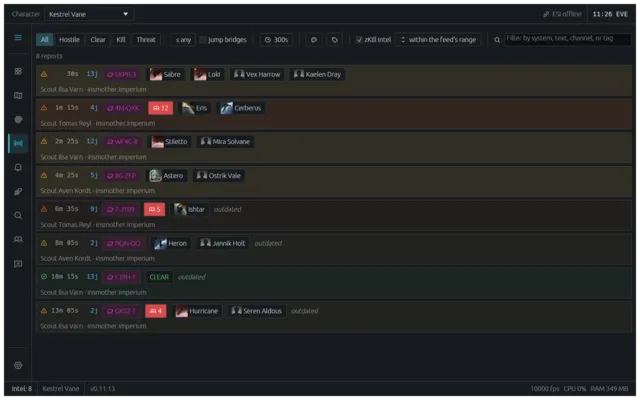
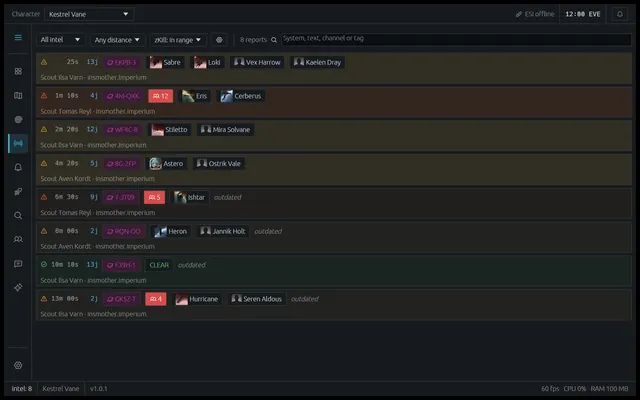
Website for 1.0: fresh screenshots, the assistant, languages and the map overlay
- Every screenshot rendered again from the current app, with a new one of the assistant answering a spoken question; og image from the new map
- A section on the assistant (voice, models, what it may read, watches, asking before it acts), tiles for the six languages and the map over the game, Language among the settings
- The 1.0 badge and feedback wording in place of alpha; screenshot links versioned so browsers fetch the new ones
- Renders report English as the system language, so the settings shot reads the same on every machine

Changed region(s): [[0.0, 0.0, 1.0, 1.0], [0.3125, 0.57, 0.4375, 0.63]]

diff --git a/site/index.html b/site/index.html
@@ -4,11 +4,11 @@
 <meta charset="UTF-8" />
 <meta name="viewport" content="width=device-width, initial-scale=1.0" />
 <title>EVE Spai, intel and wormhole tool for EVE Online</title>
-<meta name="description" content="EVE Spai reads your intel channels, maps hostiles, tracks wormhole chains, looks up locals and builds battle reports. Built by and for the Imperium." />
+<meta name="description" content="EVE Spai reads your intel channels, maps hostiles, tracks wormhole chains, looks up locals, builds battle reports and has an assistant you can ask by voice. Built by and for the Imperium." />
 <link rel="icon" type="image/png" href="eve-spai.png" />
 <meta property="og:title" content="EVE Spai" />
 <meta property="og:description" content="Intel, maps and wormholes for EVE Online, built by and for the Imperium." />
-<meta property="og:image" content="img/og.png" />
+<meta property="og:image" content="img/og.png?v=4" />
 <meta name="twitter:card" content="summary_large_image" />
 <style>
   :root {
@@ -141,7 +141,7 @@
   .feature li strong { color: var(--text); font-weight: 600; }
   .note { border-left: 2px solid var(--red); padding-left: 12px; }
 
-  .also { display: grid; grid-template-columns: repeat(4, 1fr); gap: 14px; margin-top: 10px; }
+  .also { display: grid; grid-template-columns: repeat(3, 1fr); gap: 14px; margin-top: 10px; }
   .also div { background: var(--panel); border: 1px solid var(--line); border-radius: 12px; padding: 16px 18px; }
   .also h4 { margin: 0 0 4px; font-size: 15.5px; }
   .also p { margin: 0; color: var(--muted); font-size: 14px; }
@@ -197,8 +197,8 @@
     <img class="logo" src="eve-spai.png" alt="EVE Spai logo" width="96" height="96" />
     <h1>EVE&nbsp;Spai<span class="dot">.</span></h1>
     <p class="tag">Intel, maps and wormholes for EVE Online, built by and for the <span class="imperium">Imperium</span>.</p>
-    <p class="sub">It reads your intel channels as reports land, puts hostiles on the map, keeps your wormhole chains, looks up a local in one paste and turns nearby kills into battle reports. Free and open source.</p>
-    <div><span class="alpha">Alpha &middot; in active development</span></div>
+    <p class="sub">It reads your intel channels as reports land, puts hostiles on the map, keeps your wormhole chains, looks up a local in one paste, turns nearby kills into battle reports and answers your questions by voice. Free and open source.</p>
+    <div><span class="alpha">Version 1.0 &middot; in active development</span></div>
 
     <div class="download">
       <a class="btn primary big" id="dlBtn" href="https://github.com/Amryu/eve-spai/releases/latest">
@@ -233,7 +233,7 @@
   </header>
 
   <div class="hero-shot">
-    <img class="shot" src="img/map.webp" width="1920" height="1200" alt="The star map with intel lighting up systems in Insmother, jump bridges drawn between them" data-caption="The star map: intel lights up systems as it is reported, jump bridges drawn with their Ansiblex zones." />
+    <img class="shot" src="img/map.webp?v=4" width="1920" height="1200" alt="The star map with intel lighting up systems in Insmother, jump bridges drawn between them" data-caption="The star map: intel lights up systems as it is reported, jump bridges drawn with their Ansiblex zones." />
   </div>
 
   <main class="wrap">
@@ -253,8 +253,8 @@
           </ul>
         </div>
         <div class="shots">
-          <img class="shot" src="img/intel.webp" loading="lazy" width="1920" height="1200" alt="The intel feed with hostile reports as cards" data-caption="The intel feed: each report as a card with jumps from you, hulls and pilots." />
-          <img class="shot small" src="img/alert.webp" loading="lazy" width="840" height="225" alt="The alert window with two hostile reports" data-caption="The alert window sits over the game while you play." />
+          <img class="shot" src="img/intel.webp?v=4" loading="lazy" width="1920" height="1200" alt="The intel feed with hostile reports as cards" data-caption="The intel feed: each report as a card with jumps from you, hulls and pilots." />
+          <img class="shot small" src="img/alert.webp?v=4" loading="lazy" width="840" height="225" alt="The alert window with two hostile reports" data-caption="The alert window sits over the game while you play." />
         </div>
       </div>
 
@@ -270,7 +270,7 @@
           </ul>
         </div>
         <div class="shots">
-          <img class="shot" src="img/route.webp" loading="lazy" width="1920" height="1200" alt="A planned gate route across Insmother with the route panel" data-caption="A gate route across Insmother, the Route panel beside it." />
+          <img class="shot" src="img/route.webp?v=4" loading="lazy" width="1920" height="1200" alt="A planned gate route across Insmother with the route panel" data-caption="A gate route across Insmother, the Route panel beside it." />
         </div>
       </div>
 
@@ -287,10 +287,10 @@
           </ul>
         </div>
         <div class="shots">
-          <img class="shot" src="img/wormholes.webp" loading="lazy" width="1920" height="1200" alt="The wormhole map with several chains" data-caption="The wormhole map: line colour is time left, the pattern is mass left." />
+          <img class="shot" src="img/wormholes.webp?v=4" loading="lazy" width="1920" height="1200" alt="The wormhole map with several chains" data-caption="The wormhole map: line colour is time left, the pattern is mass left." />
           <div class="shots two">
-            <img class="shot small" src="img/signatures-thumb.webp" data-full="img/signatures.webp" loading="lazy" width="640" height="400" alt="The signature browser" data-caption="The signature browser: every pasted signature, searchable." />
-            <img class="shot small" src="img/scan_route-thumb.webp" data-full="img/scan_route.webp" loading="lazy" width="640" height="1280" alt="A scan route for two scouts" data-caption="A scan route split between two scouts." style="aspect-ratio: 16 / 10; object-fit: cover; object-position: top;" />
+            <img class="shot small" src="img/signatures-thumb.webp?v=4" data-full="img/signatures.webp?v=4" loading="lazy" width="640" height="400" alt="The signature browser" data-caption="The signature browser: every pasted signature, searchable." />
+            <img class="shot small" src="img/scan_route-thumb.webp?v=4" data-full="img/scan_route.webp?v=4" loading="lazy" width="640" height="1280" alt="A scan route for two scouts" data-caption="A scan route split between two scouts." style="aspect-ratio: 16 / 10; object-fit: cover; object-position: top;" />
           </div>
         </div>
       </div>
@@ -306,7 +306,7 @@
           </ul>
         </div>
         <div class="shots">
-          <img class="shot" src="img/lookup.webp" loading="lazy" width="2160" height="1200" alt="The local lookup table" data-caption="A pasted local, looked up." />
+          <img class="shot" src="img/lookup.webp?v=4" loading="lazy" width="2160" height="1200" alt="The local lookup table" data-caption="A pasted local, looked up." />
         </div>
       </div>
 
@@ -317,7 +317,7 @@
           <p>Kills near you cluster into battles on their own: sides, efficiency, losses and hulls worked out. Split an engagement, move a group to the other side or scrub a stray kill, then share it as a link on eve-spai.com.</p>
         </div>
         <div class="shots">
-          <img class="shot" src="img/battle.webp" loading="lazy" width="1920" height="1200" alt="A battle report with three sides" data-caption="A real fight in F-5WYK, three sides worked out from the killmails." />
+          <img class="shot" src="img/battle.webp?v=4" loading="lazy" width="1920" height="1200" alt="A battle report with three sides" data-caption="A real fight in F-5WYK, three sides worked out from the killmails." />
         </div>
       </div>
 
@@ -333,8 +333,26 @@
           </ul>
         </div>
         <div class="shots">
-          <img class="shot" src="img/jabber.webp?v=3" loading="lazy" width="1920" height="1200" alt="The Jabber view with the fleet ping feed" data-caption="The fleet ping feed in the Jabber view." />
-          <img class="shot small" src="img/ping.webp?v=3" loading="lazy" width="840" height="285" alt="The fleet ping window" data-caption="The ping window over the game." />
+          <img class="shot" src="img/jabber.webp?v=4" loading="lazy" width="1920" height="1200" alt="The Jabber view with the fleet ping feed" data-caption="The fleet ping feed in the Jabber view." />
+          <img class="shot small" src="img/ping.webp?v=4" loading="lazy" width="840" height="285" alt="The fleet ping window" data-caption="The ping window over the game." />
+        </div>
+      </div>
+
+      <div class="feature">
+        <div class="text">
+          <div class="rank">07</div>
+          <h3>Assistant</h3>
+          <p>Ask about the situation in plain words, typed or spoken: where a gang went, what is near you, the fastest safe route home. It reads the same intel, kills, maps and pings you see and answers in a few lines, with systems, ships and killmails linked.</p>
+          <ul>
+            <li><strong>Talk to it:</strong> push to talk while you play and hear the answer; speech can run on your own machine.</li>
+            <li><strong>Your model:</strong> Claude, OpenAI, Gemini, a local model through Ollama or LM Studio, or your Claude or ChatGPT subscription.</li>
+            <li><strong>You decide what it reads:</strong> tick what it may see; Jabber and intel only ever go to the model you picked.</li>
+            <li><strong>Watches:</strong> ask it to keep an eye on a gang or a system and it speaks up when something matches.</li>
+            <li><strong>Asks before it acts:</strong> map highlights, routes, Jabber messages and fleet actions wait for your yes.</li>
+          </ul>
+        </div>
+        <div class="shots">
+          <img class="shot" src="img/assistant.webp?v=4" loading="lazy" width="1920" height="1200" alt="The assistant answering where a pair of hostiles went, with linked systems, a killmail and a watch running" data-caption="Asked by voice: where a pair went, the killmail linked, a map highlight waiting for a click and a watch running." />
         </div>
       </div>
 
@@ -343,6 +361,8 @@
         <div><h4>Phone web view</h4><p>Intel, map and routes on your phone or a second screen, on your own network.</p></div>
         <div><h4>D-scan sharing</h4><p>A d-scan on the clipboard becomes a link to share in one click.</p></div>
         <div><h4>Light on resources</h4><p>One native window, no browser engine, a few hundred megabytes of memory.</p></div>
+        <div><h4>In your language</h4><p>English, Deutsch, Español, Français, Русский and 中文, ship names too if you like.</p></div>
+        <div><h4>Map over the game</h4><p>A see-through map laid over EVE, on top only while the game is.</p></div>
       </div>
     </section>
 
@@ -358,13 +378,14 @@
           <li><strong>Map layers</strong>Sovereignty by alliance or coalition, activity, jump bridges, zones, camps and more.</li>
           <li><strong>Jump bridges and zones</strong>Paste your network, set the capital and the Ansiblex zone routes may use.</li>
           <li><strong>Intel channels</strong>Pick yours or start from a coalition pack; turn characters off one by one.</li>
+          <li><strong>Language</strong>Six languages to start with, asked for when you set up and changed any time.</li>
           <li><strong>Wormhole routes</strong>Which kinds of hole routes may use, and how much mass, time and size they need.</li>
         </ul>
         <div class="shots">
-          <img class="shot" src="img/alert_rules.webp" loading="lazy" width="1920" height="1200" alt="The alert rules editor" data-caption="The alert rules editor." />
+          <img class="shot" src="img/alert_rules.webp?v=4" loading="lazy" width="1920" height="1200" alt="The alert rules editor" data-caption="The alert rules editor." />
           <div class="shots two">
-            <img class="shot small" src="img/settings-thumb.webp" data-full="img/settings.webp" loading="lazy" width="640" height="400" alt="The settings view" data-caption="Settings: themes, sounds, paths and more." />
-            <img class="shot small" src="img/layers-thumb.webp" data-full="img/layers.webp" loading="lazy" width="640" height="1600" alt="The map layers panel" data-caption="The map's layers." style="aspect-ratio: 16 / 10; object-fit: cover; object-position: top;" />
+            <img class="shot small" src="img/settings-thumb.webp?v=4" data-full="img/settings.webp?v=4" loading="lazy" width="640" height="400" alt="The settings view" data-caption="Settings: themes, sounds, paths and more." />
+            <img class="shot small" src="img/layers-thumb.webp?v=4" data-full="img/layers.webp?v=4" loading="lazy" width="640" height="1600" alt="The map layers panel" data-caption="The map's layers." style="aspect-ratio: 16 / 10; object-fit: cover; object-position: top;" />
           </div>
         </div>
       </div>
@@ -376,9 +397,9 @@
     </section>
 
     <section id="feedback" class="narrow">
-      <h2>Alpha and feedback</h2>
+      <h2>Feedback</h2>
       <div class="card">
-        <p>EVE Spai is alpha software under active development. Things will break. Feedback and bug reports are welcome.</p>
+        <p>EVE Spai is under active development. Ideas, feedback and bug reports are welcome.</p>
         <div class="buttons">
           <a class="btn primary" href="https://discord.gg/u4bDqB9rjn">
             <svg viewBox="0 0 24 24" fill="currentColor"><path d="M19.27 5.33A16.6 16.6 0 0015.1 4l-.2.4a14 14 0 014 2 13.6 13.6 0 00-11.8 0c1.1-.86 2.5-1.55 4-2L10.9 4a16.6 16.6 0 00-4.17 1.33C3.6 9.96 2.7 14.5 3.16 18.95A16.7 16.7 0 008.3 21.5l.45-.65a10.9 10.9 0 01-1.74-.84l.43-.32a11.7 11.7 0 0010.1 0l.43.32c-.55.33-1.13.6-1.74.84l.45.65a16.6 16.6 0 005.13-2.55c.5-5.1-.83-9.6-2.32-13.62zM9.5 16c-.83 0-1.5-.76-1.5-1.7 0-.93.66-1.7 1.5-1.7s1.5.77 1.5 1.7c0 .94-.67 1.7-1.5 1.7zm5 0c-.83 0-1.5-.76-1.5-1.7 0-.93.67-1.7 1.5-1.7s1.5.77 1.5 1.7c0 .94-.67 1.7-1.5 1.7z"/></svg>

diff --git a/app/src/uitest/showcase.rs b/app/src/uitest/showcase.rs
@@ -109,6 +109,50 @@ pub(crate) fn scenes() -> Vec<Scene> {
             let (b, names) = fixtures::real_battle();
             a.seed_battle(b, names);
         }),
+        // A spoken question about the gang in the intel feed, answered with links, a killmail, a
+        // map action waiting for a click and a watch running.
+        showcase("showcase_assistant", View::Assistant, |a| {
+            use crate::ai::session::{ActionCard, CardState, Chip, Turn};
+            use crate::ai::tools::{ActionKind, PendingAction};
+            a.settings.ai.enabled = true;
+            a.settings.ai.voice.stt = crate::ai::config::SttKind::Groq;
+            a.set_ship_names_for_test(&[(22456, "Sabre"), (29990, "Loki"), (32880, "Venture")]);
+            let path: Vec<i64> = ["EKPB-3", "Z182-R", "KDG-TA"].iter().filter_map(|n| a.systems.as_ref().and_then(|g| g.lookup(n)).map(|i| i.id)).collect();
+            let now = crate::clock::utc().timestamp();
+            {
+                let mut ws = a.ai_watches.lock().unwrap();
+                let mut w = crate::ai::watch::Watch::new(1, "Vex Harrow and Kaelen Dray within 3 jumps of A24L-V".into(), Default::default(), vec!["vex harrow".into()], now - 120, Some(now + 3480));
+                w.hits = 1;
+                ws.push(w);
+            }
+            let q = Turn { user: true, voice: true, text: "Where's that Sabre and Loki pair heading?".into(), ..Default::default() };
+            let answer = Turn {
+                text: "**Vex Harrow and Kaelen Dray**, Sabre and Loki, on the EKPB-3 gate 25 seconds ago.\n\n\
+                       - 21:38 killed a Venture [killmail](spai:kill/131000002) in 4M-QXK\n\
+                       - 21:52 intel in Delve.Imperium: \"Sabre Loki EKPB-3 gate\"\n\n\
+                       They are working north towards KDG-TA. Highlight their path?"
+                    .into(),
+                chips: vec![
+                    Chip { name: "track_movement".into(), args: "entity: Vex Harrow, since_minutes: 60".into(), error: None },
+                    Chip { name: "route".into(), args: "from: EKPB-3, to: A24L-V".into(), error: None },
+                    Chip { name: "highlight_systems".into(), args: "systems: [EKPB-3, Z182-R, KDG-TA]".into(), error: None },
+                ],
+                cards: vec![ActionCard {
+                    action: PendingAction { id: 1, kind: ActionKind::Highlight(path), summary: "Highlight EKPB-3, Z182-R, KDG-TA on the map".into() },
+                    state: CardState::Pending,
+                    confirmed: false,
+                }],
+                ..Default::default()
+            };
+            let ask = Turn { user: true, text: "Tell me if they come within 3 jumps of me".into(), ..Default::default() };
+            let watching = Turn {
+                text: "Watching for Vex Harrow and Kaelen Dray within 3 jumps of A24L-V for the next hour.".into(),
+                chips: vec![Chip { name: "create_watch".into(), args: "goal: Vex Harrow and Kaelen Dray within 3 jumps of A24L-V".into(), error: None }],
+                ..Default::default()
+            };
+            let ctx = egui::Context::default();
+            crate::app::ai_ui::seed_ai_view(a, &ctx, vec![q, answer, ask, watching]);
+        }),
         // A gate route across the region, drawn on the map with the Route dock beside it.
         showcase("showcase_route", View::Map, |a| {
             let Some(g) = a.systems.clone() else { return };

diff --git a/app/src/app/settings_ui.rs b/app/src/app/settings_ui.rs
@@ -372,7 +372,9 @@ impl SpaiApp {
     /// The language dropdown: the system's language first, then each one in its own name.
     pub(crate) fn language_picker(&mut self, ui: &mut egui::Ui) -> bool {
         let name_of = |code: &str| spai_ui::i18n::LANGUAGES.iter().find(|(c, _)| *c == code).map_or("English", |(_, n)| *n);
-        let auto = trf!("System ({lang})", lang = name_of(&spai_ui::i18n::system_language()));
+        // Renders read the same on every machine, whatever its system language.
+        let system = if cfg!(test) { "en".to_owned() } else { spai_ui::i18n::system_language() };
+        let auto = trf!("System ({lang})", lang = name_of(&system));
         let current = if self.settings.language.is_empty() { auto.clone() } else { name_of(&self.settings.language).to_owned() };
         let mut changed = false;
         egui::ComboBox::from_id_salt("settings_language").selected_text(current).show_ui(ui, |ui| {
